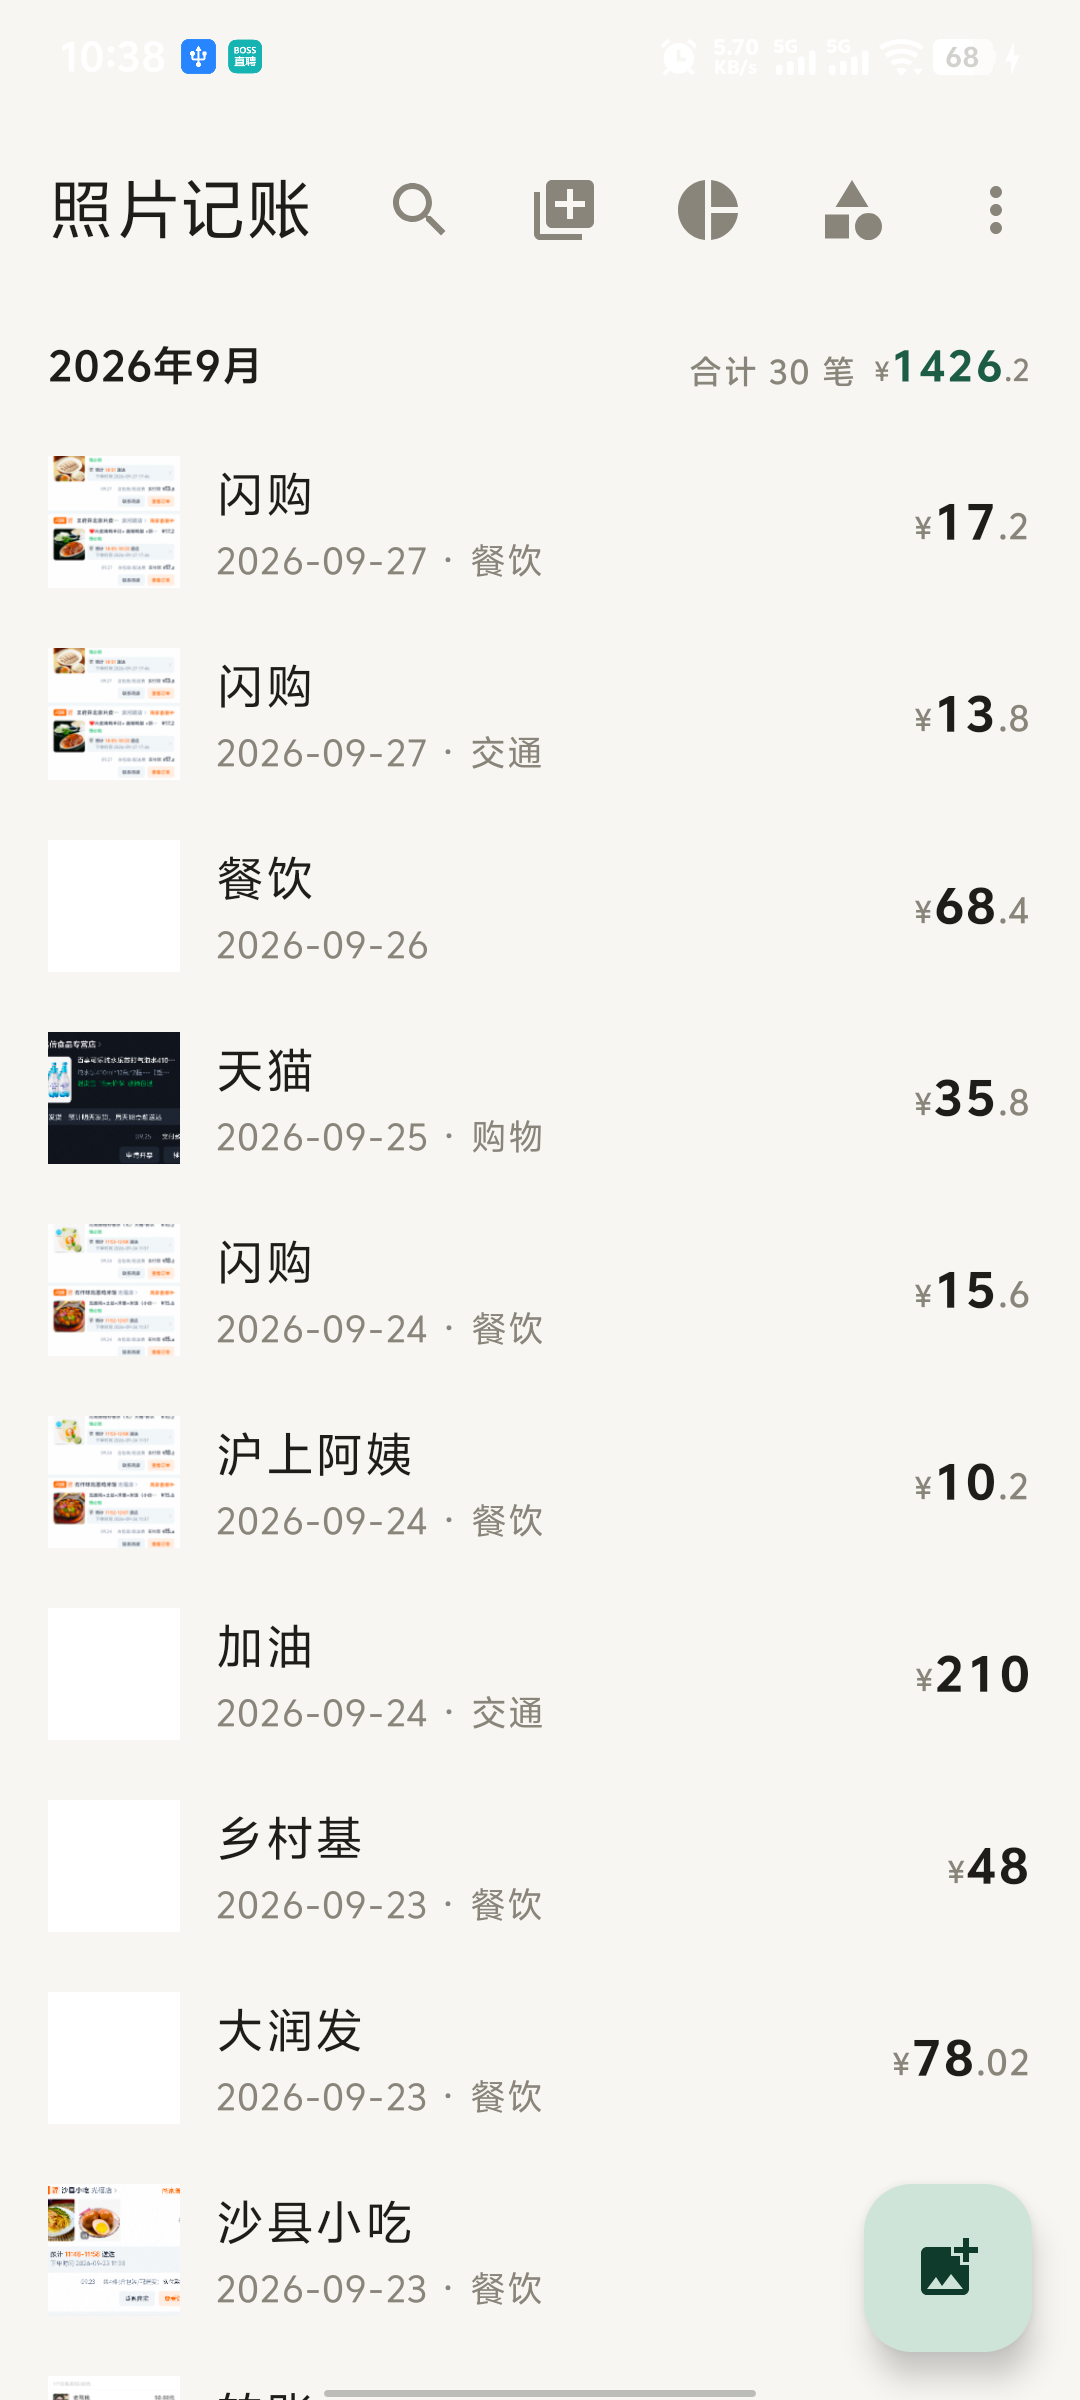
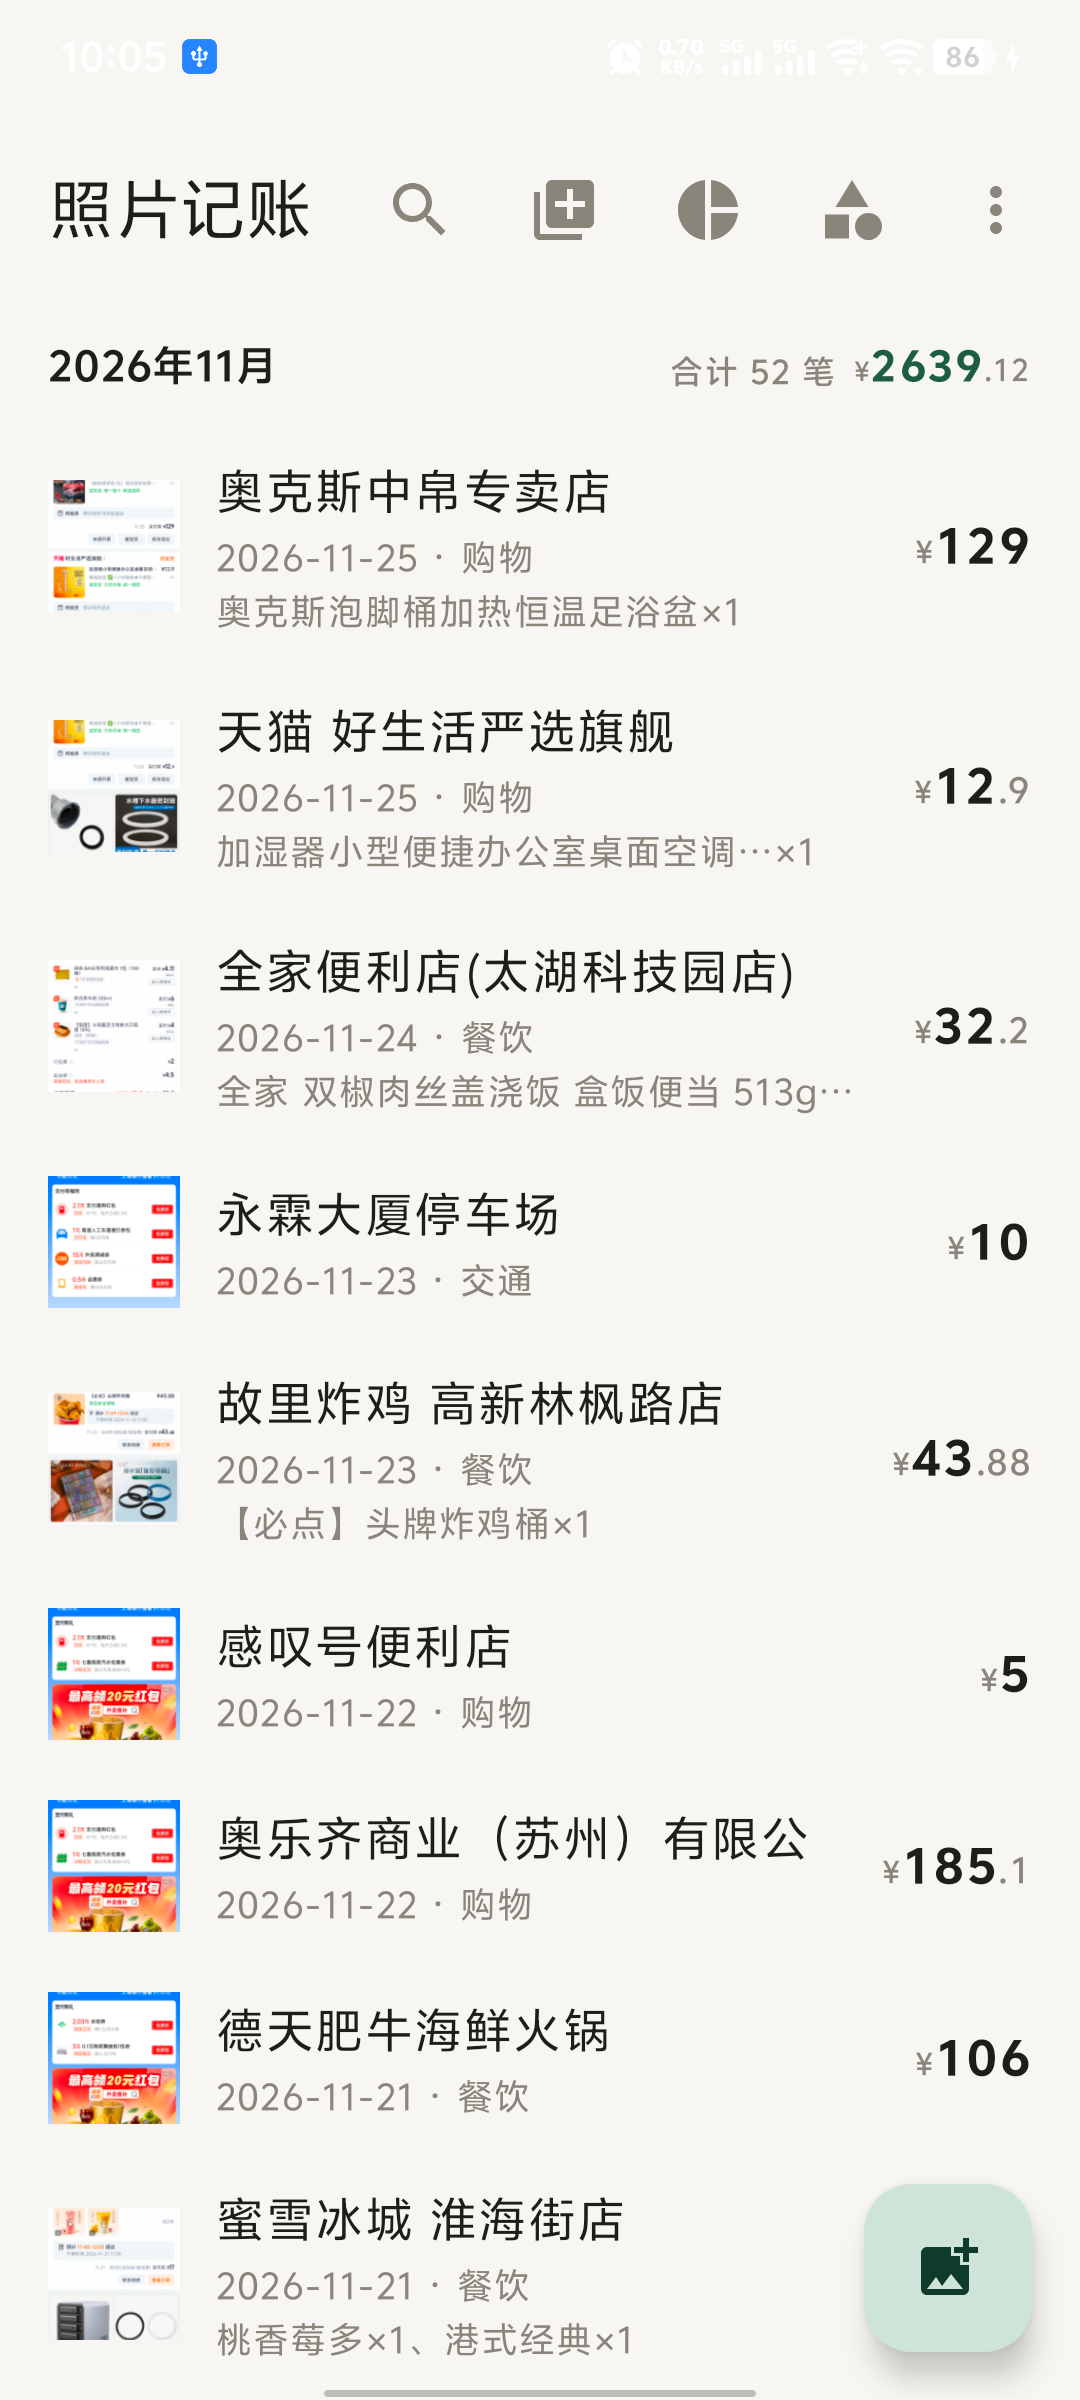
docs: README 预览补 v0.5.5 新功能截图
新增识别引擎（端侧/云端二选一、快速模式）、云端结果（商家/具体内容/token 用量）、
汇总下钻、类别拖拽四张真机截图；更新列表（具体内容第三行）、汇总（展开箭头）、
更多菜单（识别引擎入口）三张，标题版本号更新为 v0.5.5。

diff --git a/README.md b/README.md
@@ -1,6 +1,6 @@
 # Photo Ledger 照片记账
 
-> 这是我用 AI agent 从 0 到 v0.5 独立完成的产品。单张提取从 596 秒优化到约 10 秒（约 60 倍），完整踩坑记录见 [端到端耗时文档](docs/design/e2e-latency-2026-09.md)。
+> 这是我用 AI agent 从 0 到 v0.5.5 独立完成的产品。单张提取从 596 秒优化到约 10 秒（约 60 倍），完整踩坑记录见 [端到端耗时文档](docs/design/e2e-latency-2026-09.md)。
 
 把支付截图变成账目——**默认全程端侧、离线、零上传**的 Android 记账应用；可选云端识别引擎补全商家与具体内容。
 
@@ -16,17 +16,25 @@
 
 真机截图（vivo V2183A）：
 
-| 账目列表 · 按月分组、月头合计 | 汇总统计 · 环比、类别占比、历史各月 |
+| 账目列表 · 按月分组、月头合计、具体内容 | 汇总统计 · 环比、类别占比、历史各月 |
 |---|---|
 | <img src="docs/images/screenshot-list.png" width="300" alt="账目列表"> | <img src="docs/images/screenshot-stats.png" width="300" alt="汇总统计"> |
 
-| 账目详情 · 截图留档、逐单核对编辑 | 更多菜单 · 检查更新带红点提示 |
+| 账目详情 · 截图留档、逐单核对编辑 | 更多菜单 · 备份、模型、识别引擎、检查更新 |
 |---|---|
 | <img src="docs/images/screenshot-detail.png" width="300" alt="账目详情"> | <img src="docs/images/screenshot-menu.png" width="300" alt="更多菜单"> |
 
 | 模型管理 · 端侧模型就绪状态、本地导入 | 备份与导出 · zip 可回灌、CSV 只出不进 |
 |---|---|
 | <img src="docs/images/screenshot-model.png" width="300" alt="模型管理"> | <img src="docs/images/screenshot-backup.png" width="300" alt="备份与导出"> |
+
+| 识别引擎 · 端侧 / 云端二选一、快速模式 | 云端结果 · 商家、具体内容与 token 用量 |
+|---|---|
+| <img src="docs/images/screenshot-engine.png" width="300" alt="识别引擎"> | <img src="docs/images/screenshot-content.png" width="300" alt="云端识别结果"> |
+
+| 汇总下钻 · 点类别或月份展开逐笔 | 类别管理 · 长按拖拽调整顺序 |
+|---|---|
+| <img src="docs/images/screenshot-drilldown.png" width="300" alt="汇总下钻"> | <img src="docs/images/screenshot-category.png" width="300" alt="类别管理"> |
 
 ## 功能
 
